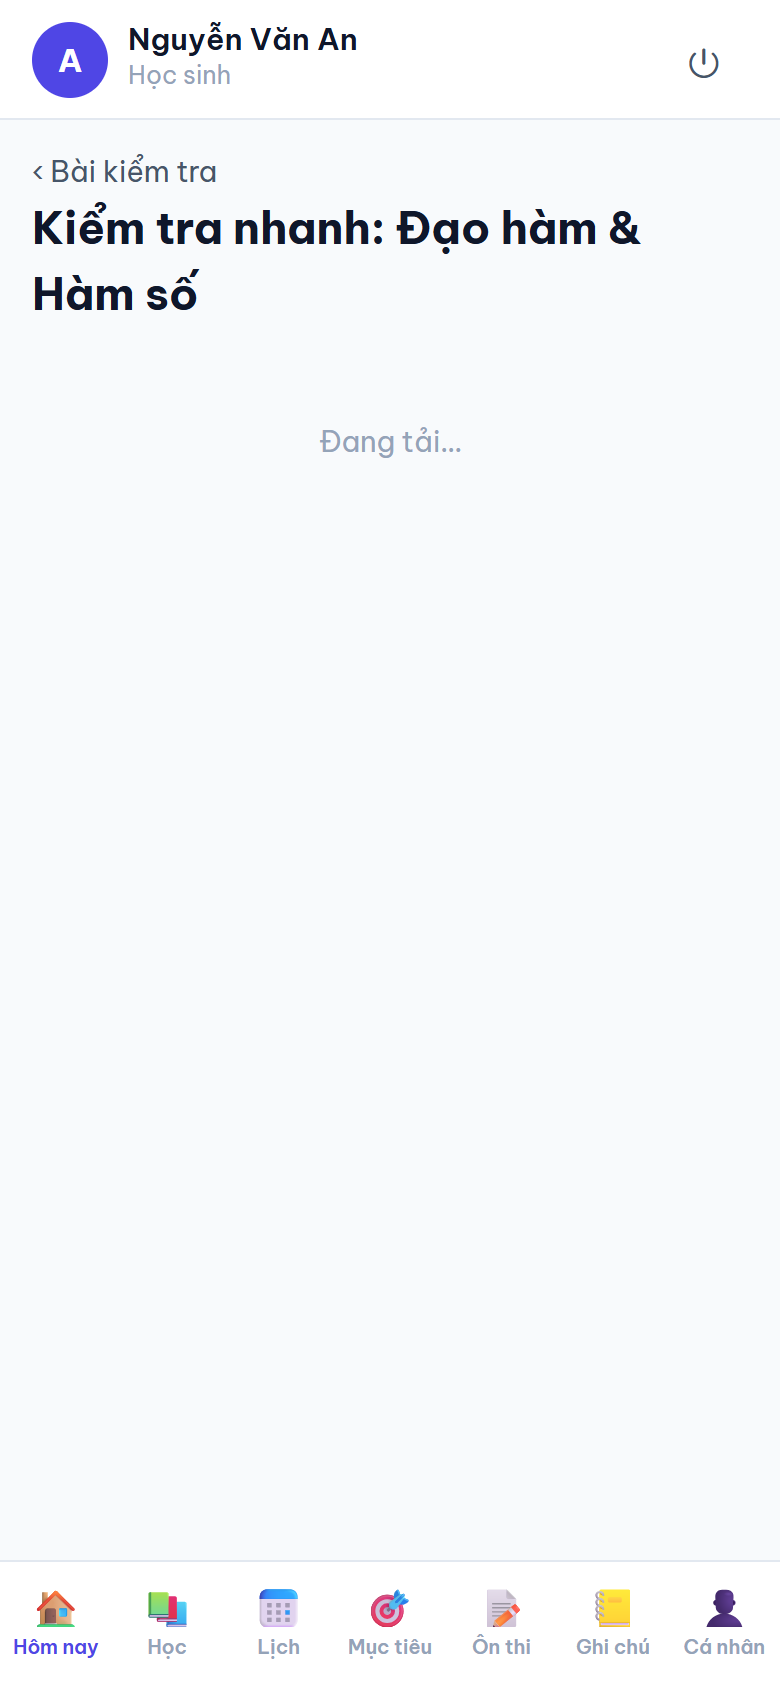
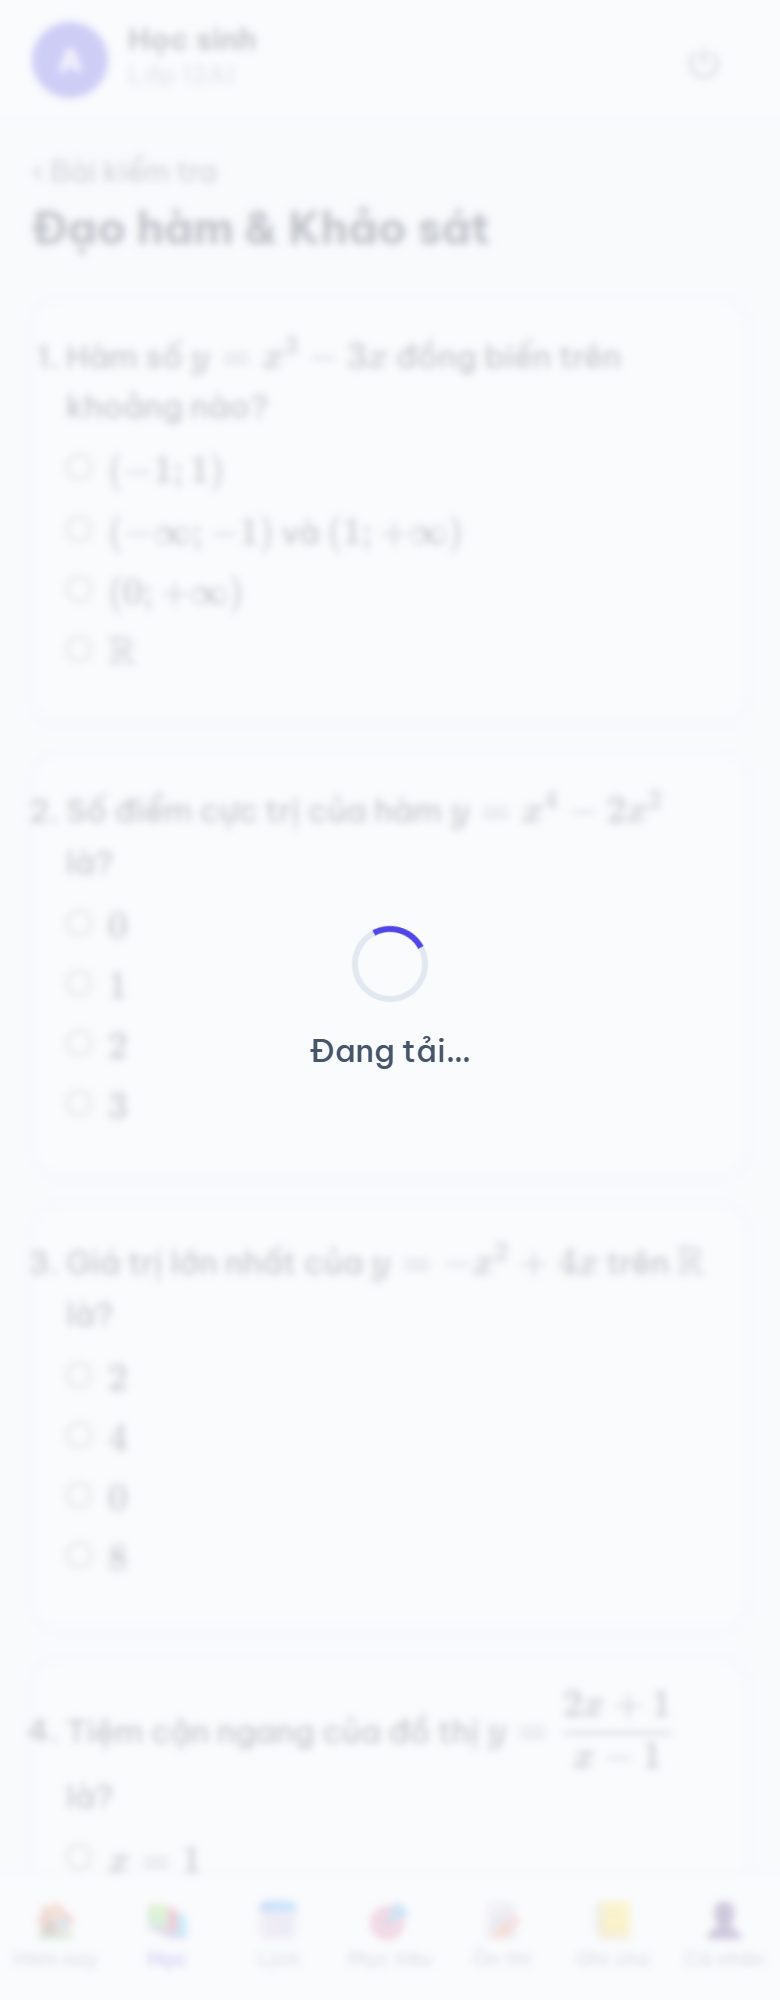
Chuyen bai kiem tra sang TINH (content/exams.js): de+cau hoi tinh, tu cham tai trinh duyet - tuc thi, khong goi backend

diff --git a/frontend/app.js b/frontend/app.js
@@ -623,41 +623,36 @@ async function renderLearn() {
   }
 
   if (v.view === 'exams') {
+    const exams = Exams.list(v.subjectCode);
     el.innerHTML = `<div class="page-head">
         <p class="link" onclick="learnBack('topics')">‹ ${v.subjectName}</p>
         <h2>Bài kiểm tra</h2><p>Chọn đề để làm</p></div>
-      <div id="learn-body"><div class="empty">Đang tải…</div></div>`;
-    try {
-      const exams = await Api.call('getExams', { subjectCode: v.subjectCode, grade: App.state.user.grade || 12 });
-      $('#learn-body').innerHTML = exams.length
+      ${exams.length
         ? exams.map((e) => `
           <div class="card" style="margin-bottom:10px;cursor:pointer" onclick="learnStartExam('${e.examId}','${e.title.replace(/'/g, '')}')">
             <strong>${e.title}</strong>
-            <div class="task-meta"><span class="muted">${e.questionIds.length} câu${e.durationMin ? ' · ' + e.durationMin + ' phút' : ''}</span></div>
+            <div class="task-meta"><span class="muted">${e.questions.length} câu${e.durationMin ? ' · ' + e.durationMin + ' phút' : ''}</span></div>
           </div>`).join('')
-        : `<div class="empty">Chưa có đề kiểm tra nào</div>`;
-    } catch (e) { $('#learn-body').innerHTML = `<div class="empty">${e.message}</div>`; }
+        : `<div class="empty">Chưa có đề kiểm tra nào</div>`}`;
     return;
   }
 
   if (v.view === 'examTake') {
+    const exam = Exams.get(v.examId);
+    if (!exam) { el.innerHTML = `<div class="empty">Không tìm thấy đề</div>`; return; }
+    v.exam = exam;
     el.innerHTML = `<div class="page-head">
         <p class="link" onclick="learnBack('exams')">‹ Bài kiểm tra</p>
         <h2>${v.examTitle}</h2></div>
-      <div id="exam-body"><div class="empty">Đang tải…</div></div>`;
-    try {
-      const exam = await Api.call('getExam', { examId: v.examId });
-      v.exam = exam;
-      $('#exam-body').innerHTML = exam.questions.map((q, i) => `
+      <div id="exam-body">` +
+      exam.questions.map((q, i) => `
         <div class="card" style="margin-bottom:12px">
           <div class="q-stem" data-md>${i + 1}. ${q.stem}</div>
           <div style="margin-top:8px">${renderQuestionInput(q, i)}</div>
         </div>`).join('') +
-        `<button class="btn btn-primary btn-block" style="margin-top:8px" onclick="learnSubmitExam()">Nộp bài</button>`;
-      // render công thức trong đề
-      $$('#exam-body .q-stem').forEach((el2) => renderMarkdown(el2.innerHTML, el2));
-      $$('#exam-body .opt-label').forEach((el2) => renderMarkdown(el2.innerHTML, el2));
-    } catch (e) { $('#exam-body').innerHTML = `<div class="empty">${e.message}</div>`; }
+      `<button class="btn btn-primary btn-block" style="margin-top:8px" onclick="learnSubmitExam()">Nộp bài</button></div>`;
+    $$('#exam-body .q-stem').forEach((el2) => renderMarkdown(el2.innerHTML, el2));
+    $$('#exam-body .opt-label').forEach((el2) => renderMarkdown(el2.innerHTML, el2));
     return;
   }
 
@@ -878,18 +873,26 @@ function collectAnswers(exam) {
   });
   return answers;
 }
-async function learnSubmitExam() {
+// Tự chấm tại trình duyệt (đề tĩnh) → tức thì, không gọi backend
+function learnSubmitExam() {
   const v = App.state.learn;
   if (!v.exam) return;
   const answers = collectAnswers(v.exam);
-  showLoading();
-  try {
-    const r = await Api.call('submitAttempt', { examId: v.examId, answers: answers });
-    v.result = r; v.view = 'examResult';
-    renderLearn();
-    showToast('Đã nộp bài · ' + r.score10 + ' điểm', 'success');
-  } catch (e) { showToast(e.message, 'error'); }
-  finally { hideLoading(); }
+  let correct = 0, gradable = 0;
+  const results = v.exam.questions.map(function (q) {
+    const your = answers[q.questionId];
+    let ok = null;
+    if (q.type === 'MCQ' || q.options) { gradable++; ok = String(your) === String(q.answer); if (ok) correct++; }
+    return {
+      stem: q.stem, your: your == null ? '' : your, answer: q.answer,
+      explanation: q.explanation, correct: ok,
+    };
+  });
+  const score10 = gradable ? Math.round((correct / gradable) * 100) / 10 : 0;
+  v.result = { score10: score10, correct: correct, gradable: gradable, total: v.exam.questions.length, results: results };
+  v.view = 'examResult';
+  renderLearn();
+  showToast('Đã nộp bài · ' + score10 + ' điểm', 'success');
 }
 
 // "Đã học" lưu localStorage (không cần backend → tức thì)

diff --git a/frontend/content/exams.js b/frontend/content/exams.js
@@ -1,0 +1,85 @@
+/* ============================================================
+   exams.js — ĐỀ KIỂM TRA (tĩnh). Tự chấm tại trình duyệt → tức thì.
+
+   CÁCH THÊM ĐỀ / CÂU HỎI:
+   - Thêm object vào EXAMS[<mã môn>]:
+       { examId:'ma-de', title:'Tên đề', durationMin:15, questions:[ ... ] }
+   - Mỗi câu (trắc nghiệm 1 đáp án):
+       { stem:'Đề bài (LaTeX $...$)', options:['A','B','C','D'], answer:<chỉ số đúng 0..3>,
+         explanation:'Lời giải ngắn' }
+   ============================================================ */
+
+const EXAMS = {
+  TOAN: [
+    {
+      examId: 'toan-c1', title: 'Đạo hàm & Khảo sát hàm số', durationMin: 15,
+      questions: [
+        { stem: 'Hàm số $y=x^3-3x$ đồng biến trên khoảng nào?',
+          options: ['$(-1;1)$', '$(-\\infty;-1)$ và $(1;+\\infty)$', '$(0;+\\infty)$', '$\\mathbb{R}$'],
+          answer: 1, explanation: '$y\'=3x^2-3>0 \\Leftrightarrow x<-1$ hoặc $x>1$.' },
+        { stem: 'Số điểm cực trị của hàm $y=x^4-2x^2$ là?',
+          options: ['$0$', '$1$', '$2$', '$3$'],
+          answer: 3, explanation: '$y\'=4x^3-4x=4x(x-1)(x+1)$ có 3 nghiệm ⇒ 3 cực trị.' },
+        { stem: 'Giá trị lớn nhất của $y=-x^2+4x$ trên $\\mathbb{R}$ là?',
+          options: ['$2$', '$4$', '$0$', '$8$'],
+          answer: 1, explanation: '$y\'=-2x+4=0 \\Leftrightarrow x=2$, $y(2)=4$.' },
+        { stem: 'Tiệm cận ngang của đồ thị $y=\\dfrac{2x+1}{x-1}$ là?',
+          options: ['$x=1$', '$y=2$', '$y=1$', '$x=2$'],
+          answer: 1, explanation: '$\\lim\\limits_{x\\to\\pm\\infty}y=\\dfrac{2}{1}=2$.' },
+        { stem: 'Đạo hàm của $y=\\ln x$ là?',
+          options: ['$x$', '$\\dfrac{1}{x}$', '$\\dfrac{1}{x^2}$', '$\\ln x$'],
+          answer: 1, explanation: '$(\\ln x)\'=\\dfrac{1}{x}$.' },
+      ],
+    },
+    {
+      examId: 'toan-tp-xs', title: 'Tích phân & Xác suất', durationMin: 15,
+      questions: [
+        { stem: 'Tính $\\displaystyle\\int_0^1 2x\\,dx$.',
+          options: ['$1$', '$2$', '$\\dfrac{1}{2}$', '$0$'],
+          answer: 0, explanation: '$[x^2]_0^1=1$.' },
+        { stem: 'Họ nguyên hàm của $f(x)=x^2$ là?',
+          options: ['$x^3+C$', '$\\dfrac{x^3}{3}+C$', '$2x+C$', '$3x^2+C$'],
+          answer: 1, explanation: '$\\int x^2dx=\\dfrac{x^3}{3}+C$.' },
+        { stem: 'Thể tích khối tròn xoay khi quay $y=\\sqrt{x}$ quanh $Ox$ từ $0$ đến $4$ là?',
+          options: ['$4\\pi$', '$8\\pi$', '$16\\pi$', '$2\\pi$'],
+          answer: 1, explanation: '$V=\\pi\\int_0^4 x\\,dx=8\\pi$.' },
+        { stem: 'Cho $P(A\\cap B)=0{,}2$, $P(B)=0{,}5$. Tính $P(A\\mid B)$.',
+          options: ['$0{,}1$', '$0{,}4$', '$0{,}25$', '$0{,}7$'],
+          answer: 1, explanation: '$P(A\\mid B)=\\dfrac{0{,}2}{0{,}5}=0{,}4$.' },
+        { stem: 'Tính $\\displaystyle\\int_0^{\\pi}\\sin x\\,dx$.',
+          options: ['$0$', '$1$', '$2$', '$-2$'],
+          answer: 2, explanation: '$[-\\cos x]_0^{\\pi}=1+1=2$.' },
+      ],
+    },
+  ],
+
+  TOEIC: [
+    {
+      examId: 'toeic-reading', title: 'TOEIC Reading – Mini test', durationMin: 10,
+      questions: [
+        { stem: 'The report must be submitted ____ Friday.',
+          options: ['in', 'on', 'at', 'by'], answer: 3, explanation: '"by Friday" = hạn chót đến thứ Sáu.' },
+        { stem: 'She is responsible ____ marketing.',
+          options: ['for', 'to', 'with', 'of'], answer: 0, explanation: 'be responsible <strong>for</strong> something.' },
+        { stem: 'We look forward to ____ from you.',
+          options: ['hear', 'hearing', 'heard', 'hears'], answer: 1, explanation: 'look forward to + V-ing.' },
+      ],
+    },
+  ],
+
+  IELTS: [],
+};
+
+const Exams = {
+  list(code) { return EXAMS[code] || []; },
+  get(examId) {
+    for (const code in EXAMS) {
+      const e = EXAMS[code].find((x) => x.examId === examId);
+      if (e) {
+        // gán id cho từng câu để chấm
+        return Object.assign({}, e, { questions: e.questions.map((q, i) => Object.assign({ questionId: examId + '-' + i, type: 'MCQ' }, q)) });
+      }
+    }
+    return null;
+  },
+};

diff --git a/tools/shot-exam.js b/tools/shot-exam.js
@@ -1,4 +1,4 @@
-// Kiểm tra render màn KẾT QUẢ bài kiểm tra (tất định, không cần backend).
+// Test đề kiểm tra TĨNH: làm bài + tự chấm tại trình duyệt (tức thì).
 const puppeteer = require('puppeteer-core');
 const path = require('path');
 const EDGE = 'C:/Program Files (x86)/Microsoft/Edge/Application/msedge.exe';
@@ -9,36 +9,38 @@ const wait = (ms) => new Promise((r) => setTimeout(r, ms));
 (async () => {
   const b = await puppeteer.launch({ executablePath: EDGE, headless: 'new', args: ['--no-sandbox', '--force-device-scale-factor=1'] });
   const p = await b.newPage();
-  await p.setViewport({ width: 390, height: 844, deviceScaleFactor: 2 });
+  const errs = [];
+  p.on('pageerror', (e) => errs.push(String(e)));
+  await p.setViewport({ width: 390, height: 1000, deviceScaleFactor: 2 });
   await p.goto(url, { waitUntil: 'domcontentloaded' });
-  await wait(1200); // chờ marked/katex CDN
+  await wait(900);
 
+  // Mở đề tĩnh (không cần backend)
   await p.evaluate(() => {
-    App.state.user = { name: 'Học sinh Demo', role: 'STUDENT', grade: 12 };
+    App.state.user = { name: 'Mai Tuệ Văn', role: 'STUDENT', grade: 12 };
     App.state.role = 'STUDENT';
     document.getElementById('screen-login').classList.add('hidden');
     document.getElementById('app-shell').classList.remove('hidden');
     App.state.tab = 'learn';
-    App.state.learn = {
-      view: 'examResult', examId: 'x', examTitle: 'Kiểm tra nhanh: Đạo hàm',
-      result: {
-        score10: 6.7, correct: 2, gradable: 3, total: 3,
-        results: [
-          { stem: 'Đạo hàm của $y=x^2$ là?', correct: true, explanation: '$(x^2)\'=2x$.' },
-          { stem: 'Số nghiệm của $x^2-1=0$?', correct: false, explanation: '$x=\\pm 1$ nên có 2 nghiệm.' },
-          { stem: 'Trình bày ứng dụng đạo hàm.', correct: null, explanation: '' },
-        ],
-      },
-    };
+    App.state.learn = { view: 'examTake', subjectCode: 'TOAN', subjectName: 'Toán', examId: 'toan-c1', examTitle: 'Đạo hàm & Khảo sát' };
     switchTab('learn');
   });
-  await wait(800);
+  await wait(400);
+  await p.screenshot({ path: path.join(ROOT, 'screenshots', 'exam-take.png') });
+
+  // Chọn đúng hết theo đáp án trong EXAMS rồi nộp
+  const res = await p.evaluate(() => {
+    const ex = Exams.get('toan-c1');
+    ex.questions.forEach((q) => {
+      const r = document.querySelector('input[name="q-' + q.questionId + '"][value="' + q.answer + '"]');
+      if (r) r.checked = true;
+    });
+    learnSubmitExam();
+    return { score: App.state.learn.result.score10, correct: App.state.learn.result.correct, view: App.state.learn.view };
+  });
+  await wait(300);
   await p.screenshot({ path: path.join(ROOT, 'screenshots', 'exam-result.png') });
-  const r = await p.evaluate(() => ({
-    pills: document.querySelectorAll('#screen-learn .pill').length,
-    katex: !!document.querySelector('#screen-learn .katex'),
-    score: (document.querySelector('#screen-learn .days') || {}).textContent,
-  }));
-  console.log(JSON.stringify(r));
+  console.log('Lỗi JS:', errs.length ? errs : 'không có');
+  console.log(JSON.stringify(res));
   await b.close();
 })();

diff --git a/frontend/index.html b/frontend/index.html
@@ -162,6 +162,7 @@
   <script src="https://cdn.jsdelivr.net/npm/katex@0.16.9/dist/katex.min.js"></script>
   <script src="https://cdn.jsdelivr.net/npm/katex@0.16.9/dist/contrib/auto-render.min.js"></script>
   <script src="content/curriculum.js"></script>
+  <script src="content/exams.js"></script>
   <script src="mock-data.js"></script>
   <script src="api.js"></script>
   <script src="app.js"></script>
